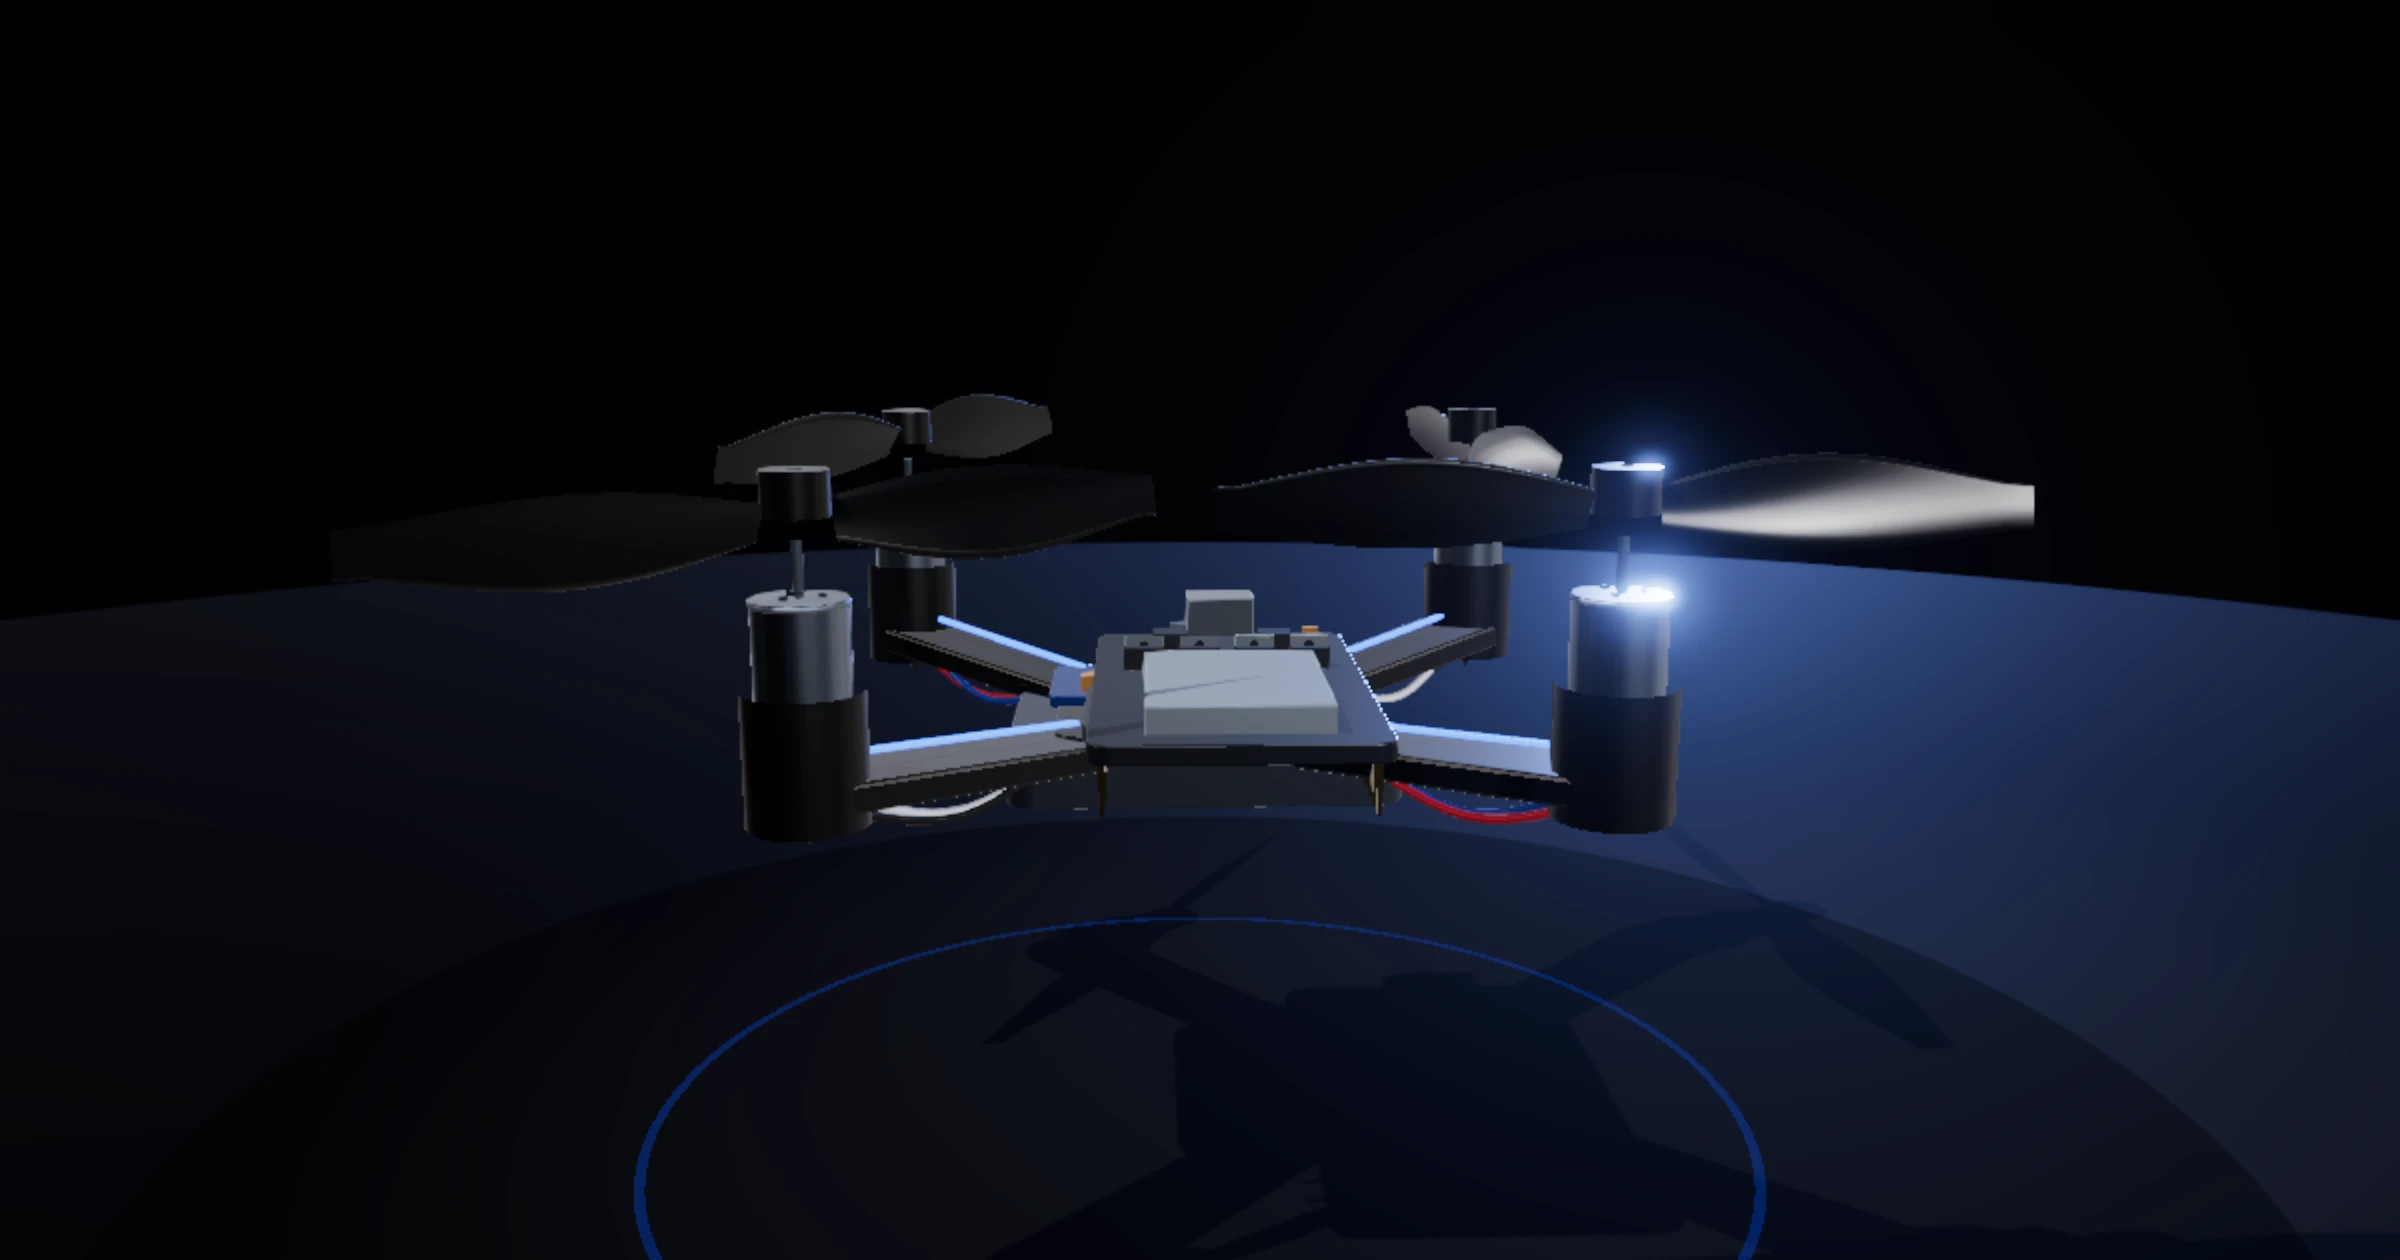
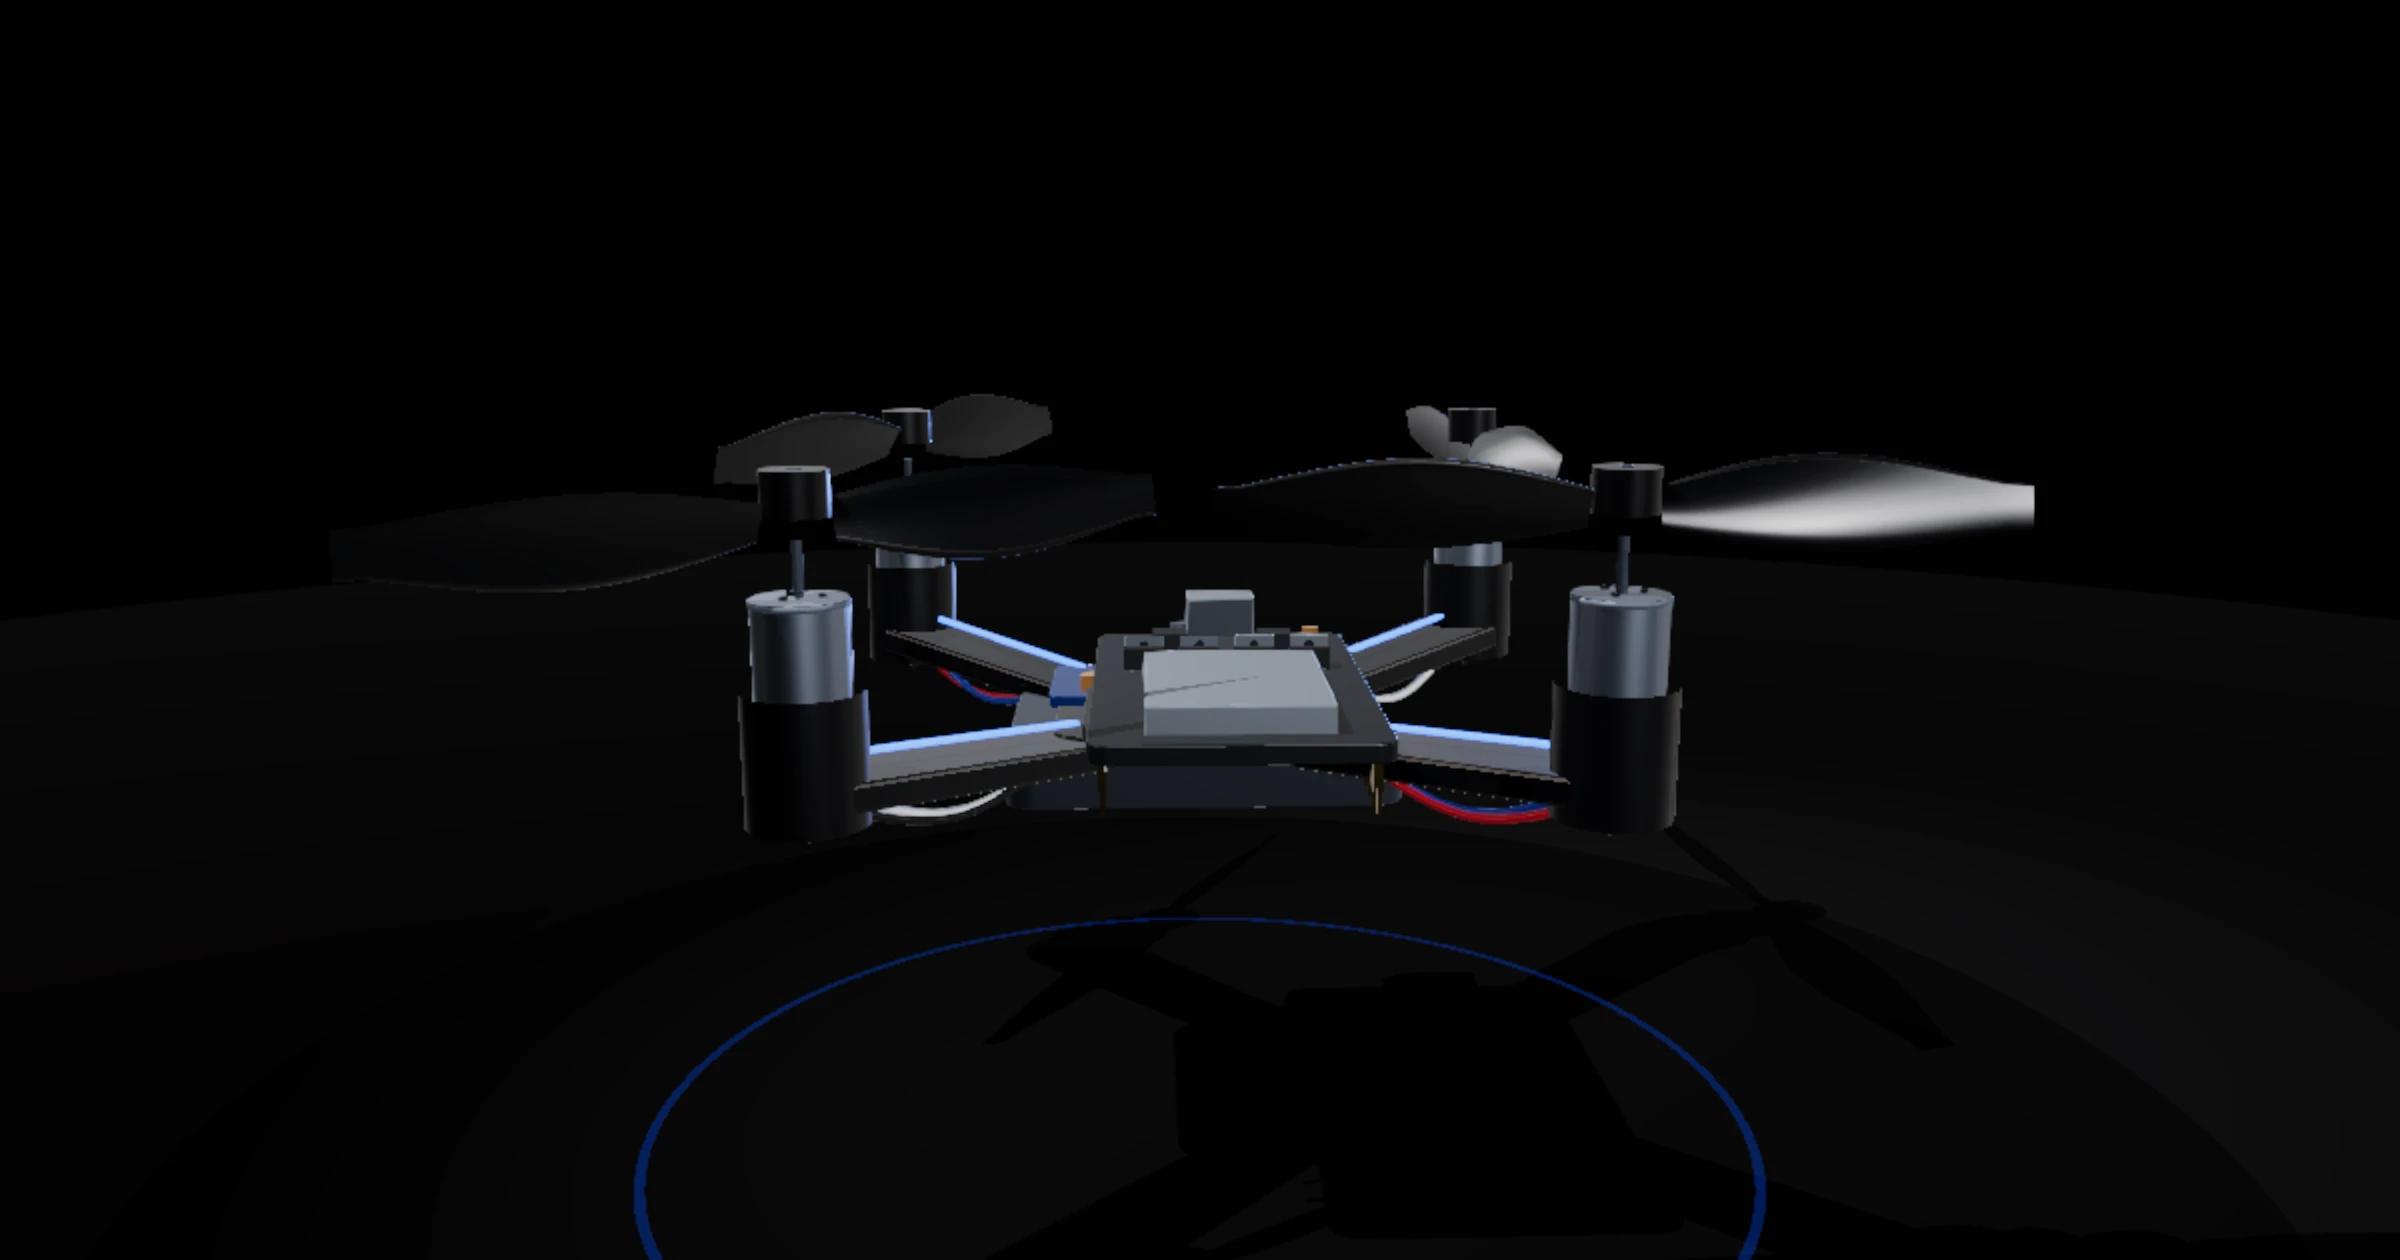
Fix the blue motor lamps: it was the rim light angle, not bloom
Took three wrong guesses before measuring properly, so recording the actual
chain.

It was never bloom. Sweeping the bloom threshold from 0.80 to 1.15 moved the
blue-hotspot pixel count only 500 -> 484, which rules post-processing out
entirely - the brightness is in the base render.

It was not the chamfer tori or the shafts either. Locating the single brightest
pixel and raycasting it identified the motor body cylinder itself.

The earlier per-light test that showed "nothing dominates" was invalid: it keyed
lights by o.type, and the rim and fill are both DirectionalLight, so one
silently overwrote the other and only one was ever disabled. Enumerating every
light individually shows the rim light alone accounts for 500 -> 157.

Cause: the rim sat at y=30, level with the motor top caps, so a mirror-angle
specular bounced straight into camera. Dropping it to y=-4 makes it graze the
silhouette instead of glinting off the cans, with intensity raised 2.2 -> 2.6 to
compensate for the shallower angle. Blue hotspot pixels 500 -> 178.

Also spreads the gunmetal reflection (roughness 0.30 -> 0.42, envMapIntensity
1.15 -> 0.85) so the cans stop clipping: 65 clipped pixels -> 0, peak 253.6 ->
249.9. Motors still read as the brightest metal, as intended.

Bloom threshold restored to 0.80 - raising it was a failed guess, not a fix.

DOT_MASK_INVERT stays false: dots clear around the cursor, as requested.

Static assets re-captured with the corrected lighting.

Changed region(s): [[0.2812, 0.3095, 1.0, 1.0]]

diff --git a/src/scene.js b/src/scene.js
@@ -132,8 +132,12 @@ export function initScene() {
   scene.add(keyLight.target);
 
   // RIM — with a near-black body this IS the silhouette. Not optional.
-  const rimLight = new THREE.DirectionalLight(0x7fa8ff, 2.2);
-  rimLight.position.set(-55, 30, -240);
+  // At y=30 this sat level with the motor top caps and mirrored straight off
+  // them, which is what produced the blue lamps - not bloom, and not the
+  // chamfers. Dropping it below the drone makes it graze the silhouette
+  // instead of glinting off the cans: measured blue-hotspot pixels 500 -> 178.
+  const rimLight = new THREE.DirectionalLight(0x7fa8ff, 2.6);
+  rimLight.position.set(-55, -4, -255);
   scene.add(rimLight);
 
   const fillLight = new THREE.DirectionalLight(0xffffff, 0.8);
@@ -216,10 +220,7 @@ export function initScene() {
     new THREE.Vector2(window.innerWidth, window.innerHeight),
     0.35, // strength — only speculars and the emissive trim should cross
     0.6, // radius
-    // 0.88, not 0.80: the accent trim sits at ~1.04 luminance and still
-    // crosses, but the motor rim chamfers were sitting just above 0.80 and
-    // blooming into little blue lamps at the shaft tips
-    0.88 // threshold
+    0.8 // threshold
   );
   composer.addPass(bloom);
   composer.addPass(new SMAAPass());

diff --git a/src/drone.js b/src/drone.js
@@ -396,8 +396,12 @@ export function createDrone(maxAnisotropy = 1) {
     gunmetal: new THREE.MeshStandardMaterial({
       color: COLOR.gunmetal,
       metalness: 1,
-      roughness: 0.3,
-      envMapIntensity: 1.15,
+      // At roughness 0.30 / env 1.15 the can mirrored the HDRI softbox down to
+      // a clipped point, which bloom then turned into a small lamp at the motor
+      // top. Spreading the reflection keeps the motors the brightest metal in
+      // the scene without saturating: 65 clipped pixels -> 0, peak 253.6 -> 249.9.
+      roughness: 0.42,
+      envMapIntensity: 0.85,
     }),
     shaft: new THREE.MeshStandardMaterial({ color: COLOR.shaft, metalness: 1, roughness: 0.58, envMapIntensity: 0.5 }),
     // glossy near-black: the highlight sweeping the blade twist is what sells it
